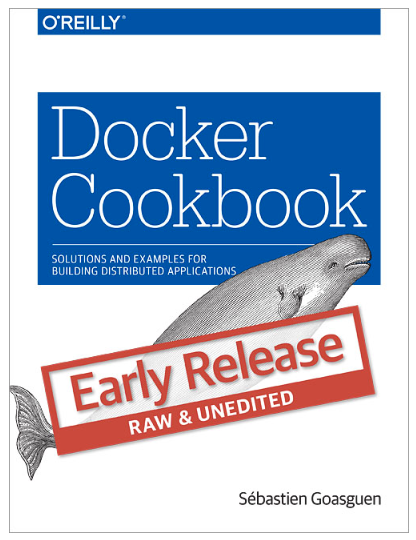
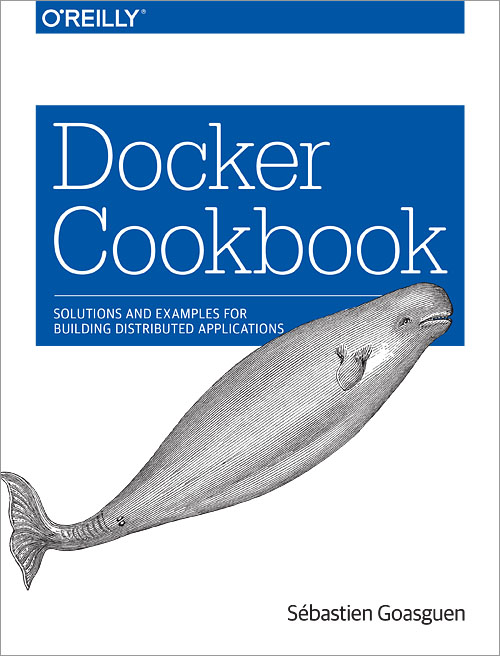
Update to README file

Changed region(s): [[0.0, 0.0, 1.0, 1.0]]

diff --git a/README.md b/README.md
@@ -1,15 +1,11 @@
-docbook
-=======
-
 [Docker](http://docker.com) cookbook examples
 
-These are scripts being developed for the O'Reilly Docker [cookbook](http://shop.oreilly.com/product/0636920036791.do)
+This repository is a collection of scripts/Vagrantfiles for the O'Reilly Docker [cookbook](http://shop.oreilly.com/product/0636920036791.do)
 
 ![Book cover](./images/bookcover.png)
 
 * * *
-The book is currently in early release, expect frequent changes. It has not been technicaly reviewed, nor has it been edited.
-Work in progress ...
+The book is now finished, however due to frequent changes of Docker they may need to be updated
 * * *
 
 [Chapter 1 - Installation](ch01/)
@@ -20,6 +16,14 @@ Work in progress ...
 
 [Chapter 4 - Configuration and Dev](ch04/)
 
-[Chapter 6 - JEOS for Docker](ch06/)
+[Chapter 5 - Kubernetes](ch05/)
 
-[Chapter 7 - Tools ](ch04/)
+[Chapter 6 - Optimized OS for Docker](ch06/)
+
+[Chapter 7 - Tools ](ch07/)
+
+[Chapter 8 - Docker in the Cloud](ch08/)
+
+[Chapter 9 - Monitoring and Logging](ch09/)
+
+[Chapter 10 - Use cases](ch10/)
